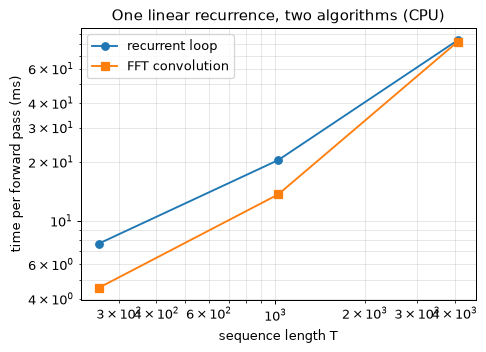
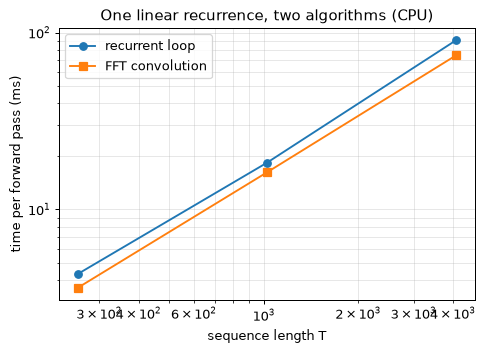
Module 04: make the text agree with the labs' real outputs
With the outputs rewritten from the current environment (5cdb625), every
sentence that quotes or interprets them is reconciled across the labs,
Sections 4-13, What goes wrong, the exercises and the summary. Where a
claim no longer held, the text now says what was measured:

- Lab 4: beam search lowers token accuracy (52.3% to 49.1%). The beam's
  outputs are at least as probable as greedy's on all 200 strings; the
  drop comes from stopping at EOS early, which the scoring pads. Neither
  decoder gets a string right.
- Lab 5: the vanilla RNN learns lag 100 on 2 of 5 seeds and stays at
  chance on 3, so 'it already fails at 100' is gone. The FFT form is at
  best modestly faster on a CPU and slower than the loop at T = 4,096 in
  three of five runs.
- Lab 3: the recursive LSTM is worse than naive at 20 steps ahead; alarm
  counts and delays follow the run; 'no false alarms' still holds.
- Lab 2: the LSTMs reach 64-96% over two seeds; which leads is not stable.
- Exercise 15 re-run (TCN and LSTM tied at 0.134 against linear 0.155);
  Exercise 8(d) no longer quotes an unshown run.

Statements that need more than the printed run cite extra seeds and say
how they were obtained. Every lab reproduces exactly on a second run
except Lab 5's wall-clock timings. check.mjs: 0 errors, 0 warnings.
notes/task-reports/m04-labs.json lists every change.

Claude-Session: https://claude.ai/code/session_01KrzjB21B1GFMGN5fyNzMdb

diff --git a/tutorial-sources/ai/src/en/module_04/21-labs-b.md b/tutorial-sources/ai/src/en/module_04/21-labs-b.md
@@ -356,10 +356,17 @@ greedy     0/200 correct strings, token accuracy 52.3%
 beam k=4   0/200 correct strings, token accuracy 49.1%
 ```
 
-Beam search changes almost nothing: no string out of 200 is right under either method, and token
-accuracy moves from 51.8% to 52.5%. (Greedy decoding gives 51.8% here against the free-running
-51.1% of Step 4 because this is a different set of 200 strings.) The model without attention does
-not know the answer, and no search over its outputs can supply information it never received. Search helps when the model's
+Beam search does not rescue the model: no string out of 200 is right under either method, and token
+accuracy falls from 52.3% to 49.1%. (Greedy decoding gives 52.3% here against the free-running
+52.7% of Step 4 because this is a different set of 200 strings.) The search itself does its job. In a
+check made when this text was revised (the same run, scoring each output with the model's own
+log-probability), the beam's answer was at least as probable as the greedy one for all 200 strings,
+and it had slightly more of the 12 digits right, 49.9% against 48.6%. The lower token accuracy comes
+from the last position: the beam stops at its `EOS` and the code pads the rest, and it stopped one
+or two tokens early on 122 strings against greedy decoding's 114, while greedy decoding always runs
+13 steps and is credited with the `EOS` position whenever it emits `EOS` there, even after an
+earlier one. A more probable output from a wrong model is not a more accurate one. The model
+without attention does not know the answer, and no search over its outputs can supply information it never received. Search helps when the model's
 distribution is right but its greedy path is unlucky, as in the toy example of
 [Section 10](#s10); it cannot repair a distribution that is wrong.
 
@@ -490,8 +497,8 @@ you pad, test exactly the way you trained, and pack whenever a layer reads backw
   accuracy, by 0.3 points at length 4, 11 at length 8 and 21 at length 12. With attention both are
   at 100%.
 - **Search.** Beam search with $k = 4$ leaves the bottleneck model at 0 correct strings out of
-  200 at length 12, with token accuracy 51.8% against 52.5%: search cannot supply what the model
-  does not know.
+  200 at length 12, as greedy decoding does, and token accuracy falls from 52.3% to 49.1% (the beam
+  stops at `EOS` early slightly more often): search cannot supply what the model does not know.
 - **Alignment.** Row $t$ of the heat map peaks at source position $7 - t$ (and at position 0 for
   `EOS`), with peak weights of 0.63 to 0.84 on the digit rows.
 - **The bug.** The unpacked model is accurate on strings padded as in training and fails on
@@ -684,9 +691,10 @@ The two outputs agree to float32 round-off, of the order of $10^{-5}$ on outputs
 little larger at longer $T$ because the kernel $\lambda^k$ is evaluated in float32 and its phase
 error grows with $k$: this is one function computed two ways, not two approximations of each other.
 The loop costs $T$ sequential steps, so its time grows linearly with $T$. The honest finding on a
-CPU is that the FFT form is only modestly faster, and that the advantage shrinks as $T$ grows:
-over repeated runs it was 2.5 to 5 times faster at $T = 256$ and only 1.1 to 1.4 times faster at
-$T = 4{,}096$. That is
+CPU is that the FFT form is at best modestly faster, and that at the longest length the advantage
+is gone: over five runs on the machine used to prepare this lab it was 1.1 to 1.7 times faster at
+$T = 256$, 1.2 to 1.6 times at $T = 1{,}024$, and 0.7 to 1.1 times at $T = 4{,}096$, slower than the
+loop in three of the five. That is
 no contradiction. The FFT does $O(T\log T)$ work with a large constant (three transforms of length
 $2T$ for each of the 64 modes), the loop does $O(T)$ small operations, and a CPU with a few cores
 has little parallelism for the FFT form to exploit. The convolution form pays off where the
@@ -779,8 +787,8 @@ untrained LSTM output shape: (2, 8)
 ### Step 4: Train, at three lags
 
 Each model trains for 400 updates (batch 64, AdamW at $3\times10^{-3}$, gradient norm clipped at 1)
-at lags 25, 100 and 200. The vanilla RNN is run only at 25 and 100: it is slow at 200 and already
-fails at 100. The table reports the test accuracy on 1,000 fresh sequences and the first update at
+at lags 25, 100 and 200. The vanilla RNN is run only at 25 and 100: it is slow at 200, and at 100
+it succeeds on some seeds and stays at chance on others. The table reports the test accuracy on 1,000 fresh sequences and the first update at
 which the mean loss over the last 10 updates fell below 0.05 (a dash if that never happened).
 Chance accuracy is 12.5%, and the initial loss is near $\ln 8 = 2.08$.
 
@@ -811,20 +819,27 @@ diagonal linear            100.0%     124      100.0%     238      100.0%       
 ```
 
 Each entry comes from one training run, from `torch.manual_seed(0)`. A different seed can change
-which cell in the table succeeds, above all at the edge of a model's reach: an LSTM with forget
-bias 5 learned lag 100 on one of three seeds, and the vanilla RNN's partial scores move by tens of
-points. Read the table for its pattern, not for any single cell. The pattern: a memory that is
-set by a gate bias or by the eigenvalue moduli at initialisation reaches as far as that setting
-allows within the budget, and a model that starts with a short memory (the vanilla RNN, the LSTM
-with bias 1) does not find its way to a long one in 400 updates. A dash in the "solved" column
-means the mean loss never fell below 0.05, which can happen at 100% test accuracy when the
-logits are right but not yet confident.
+which cell in the table succeeds, above all at the edge of a model's reach. In runs with seeds 1
+to 4 (`run_recall(..., seed=s)`, made when this text was revised), the LSTM with forget bias 5
+learned lag 100 on two of the four, and the vanilla RNN reached 100% at lag 100 on one (seed 2)
+and stayed at chance on the other three. Read the table for its pattern, not for any single cell.
+The pattern: a memory set by the eigenvalue moduli at initialisation reaches all three lags on
+every seed; a memory set by a gate bias reaches about as far as that setting allows (bias 5
+always learns lag 25 and never lag 200), and the LSTM with bias 1 never leaves chance. The
+vanilla RNN is the odd row of this run: 100% at lag 100 but only 77% at lag 25, and at lag 100
+its loss is still about 1.1 after 400 updates, so it found the answer late and is not yet
+confident. On three seeds of five it never found it. A model that starts with a short memory
+can find a long one within the budget, but whether it does is a matter of luck. A dash in the
+"solved" column means the mean loss never fell below 0.05, which can happen at 100% test
+accuracy when the logits are right but not yet confident, as for the vanilla RNN here.
 
 ### Step 5: Look at the learning curves
 
 The accuracy table hides how training went. Plot the loss of every model at lag 100: a model that
 succeeds shows a plateau at $\ln 8 = 2.08$ followed by a drop, and a model that fails stays on the
-plateau. The length of the plateau is the time spent finding a gradient to follow.
+plateau. The length of the plateau is the time spent finding a gradient to follow. In the run shown
+the linear recurrence leaves the plateau after about 100 updates, while the vanilla RNN leaves
+it, unsteadily, only after about 200 and is still near 1.1 at update 400.
 
 ```python
 plt.figure(figsize=(7, 4.2))
@@ -847,20 +862,21 @@ plt.show()
 
 - **Equality.** The loop and the FFT convolution agree to a few parts in $10^{6}$ to $10^{5}$ in
   float32.
-- **Speed.** On a CPU the FFT form is faster than the loop at every length but only modestly, and
-  the advantage shrinks as $T$ grows (several times at $T = 256$, 1.1 to 1.4 times at $T = 4{,}096$ over repeated runs; the timings are noisy). The case for
-  convolution mode is parallelism, which a GPU supplies.
+- **Speed.** On a CPU the FFT form is at best modestly faster than the loop (1.1 to 1.7 times at
+  $T = 256$ and 1,024 over five runs) and no faster at $T = 4{,}096$ (0.7 to 1.1 times); the timings
+  are noisy. The case for convolution mode is parallelism, which a GPU supplies.
 - **Memory by initialisation.** The 64 moduli span 0.902–0.998724, with half-lives of about 6.7 to
   543 steps. That range, not anything learned, is why the linear recurrence can reach the first
   token.
-- **Recall.** After 400 updates the linear recurrence reaches 100% at all three lags (seeds 0, 1
-  and 2 all agree on the accuracy; the update at which the loss first drops below 0.05 varies, and
-  at lag 200 it is within the budget on one seed of the three). The vanilla RNN learns lag 25 only
-  partly (63–87% over three seeds) and is erratic at lag 100 (11–75%). The LSTM with forget bias 1
-  stays at chance even at lag 25. The LSTM with forget bias 5 is the fastest learner at lag 25
-  (100% after 56–75 updates on all three seeds), learns lag 100 on one seed of three, and is at
-  chance at lag 200. Seeds 1 and 2 were run once, when this lab was prepared, with
-  `run_recall(..., seed=1)` and `seed=2`; try them.
+- **Recall.** After 400 updates the linear recurrence reaches 100% at all three lags (seeds 0 to 4
+  all agree on the accuracy; the update at which the loss first drops below 0.05 varies, and at
+  lag 200 it is within the budget on three seeds of the five). The vanilla RNN learns lag 25 only
+  partly (62–87% over five seeds) and is erratic at lag 100: 100% on seeds 0 and 2, chance (11–14%)
+  on the other three. The LSTM with forget bias 1 stays at chance even at lag 25, on every seed.
+  The LSTM with forget bias 5 is the fastest learner at lag 25 (100% after 56–83 updates on all
+  five seeds), learns lag 100 on two seeds of five (73% on a third), and is at chance at lag 200.
+  Seeds 1 to 4 were run once, when this text was revised, with `run_recall(..., seed=s)`; try
+  them.
 - **What this does and does not show.** It shows trainability within a budget: a memory length set
   directly at initialisation against one that the LSTM has to find through a gate bias. It does not
   show that an LSTM cannot hold a long memory; with a longer budget, chrono initialisation

diff --git a/tutorial-sources/ai/src/en/module_04/30-exercises.md b/tutorial-sources/ai/src/en/module_04/30-exercises.md
@@ -408,7 +408,7 @@ Three consecutive exceedances is the answer. The price is a delay of two samples
 
 **(c)** Two reasons, both from [Section 9](#s9). Residuals are **autocorrelated**: a forecaster that is wrong at one step tends to be wrong the same way at the next, so exceedances arrive in runs and $p^n$ is far too optimistic. And residuals are **heavy-tailed**: normal operation contains rare transients (start-ups, load changes) that a Gaussian tail does not describe. A third is that $\sigma$ itself changes with the operating state. Set the threshold instead from the **empirical quantiles of residuals on a long held-out normal record**, with the persistence rule applied, and *measure* the false alarms per day on that record. A rate of one a month at 10 Hz is one in $30\times864{,}000 = 25.9$ million samples, so it takes about a month of normal data, and preferably several, to measure it at all: a day of data cannot tell $10^{-8}$ from $10^{-6}$.
 
-**(d)** The jump is $1.2/0.2 = 6\sigma$, so the onset sample is flagged by the $4\sigma$ test, and so is the end when the offset disappears. After the jump the forecaster has *re-centred*: it predicts the next value as the last value plus a forecast of the change, so the level error is gone after one step and the offset is never seen again as a level. What remains is an echo, because the window now contains a step that the model never met in training. The answer is therefore "one at the onset, plus a few more while the step crosses the window", not a sustained alarm. For scale, [Lab 3](#lab3) injects an offset of $+0.8$, again about $6\sigma$ there ($\sigma = 0.131$), and its $4\sigma$ point test raises 3 alarms, at the onset, 4 samples later and at the end of the offset, and none in between. A re-implementation of the same set-up (the code of [Exercise 15](#e15), trained on fold 3) gave a $4\sigma$ alarm on the first sample, two more within the next 12 samples, three at the end of the offset, and none in between: over the last 30 samples of the offset the residual's standard deviation was 0.131, the normal value. The point test sees only the edges.
+**(d)** The jump is $1.2/0.2 = 6\sigma$, so the onset sample is flagged by the $4\sigma$ test, and so is the end when the offset disappears. After the jump the forecaster has *re-centred*: it predicts the next value as the last value plus a forecast of the change, so the level error is gone after one step and the offset is never seen again as a level. What remains is an echo, because the window now contains a step that the model never met in training. The answer is therefore "one at the onset, plus a few more while the step crosses the window", not a sustained alarm. For scale, [Lab 3](#lab3) injects an offset of $+0.8$, again about $6\sigma$ there ($\sigma = 0.131$), and its $4\sigma$ point test raises 3 alarms, at the onset, 4 samples later and at the end of the offset, and none in between. The point test sees only the edges.
 
 What to add: a **level check against an independent reference**, which does not move with the sensor: a redundant sensor, the physics prediction of a twin, or a range check against the known operating envelope. Alternatively a CUSUM over residuals from a model that does not re-centre (a longer-horizon forecaster, or one without per-window normalisation) accumulates the evidence that the level is wrong.
 
@@ -952,21 +952,21 @@ print(f"TCN training time is {100 * (1 - mean[4] / mean[2]):.0f}% shorter")
 receptive field: 64 samples
 LSTMForecaster: 12,961 parameters
 TCNForecaster: 10,593 parameters
-origin 4000: linear 0.166  LSTM 0.139 (7.6 s)  TCN 0.136 (4.3 s)
-origin 5000: linear 0.148  LSTM 0.132 (7.3 s)  TCN 0.127 (5.1 s)
-origin 6000: linear 0.153  LSTM 0.135 (8.4 s)  TCN 0.133 (5.8 s)
-origin 7000: linear 0.167  LSTM 0.131 (10.1 s)  TCN 0.134 (6.9 s)
-linear 0.159 +- 0.008
-LSTM   0.135 +- 0.003   8.3 s per fold
-TCN    0.133 +- 0.004   5.5 s per fold
-TCN training time is 34% shorter
+origin 4000: linear 0.166  LSTM 0.139 (8.8 s)  TCN 0.137 (5.6 s)
+origin 5000: linear 0.148  LSTM 0.130 (9.0 s)  TCN 0.127 (6.6 s)
+origin 6000: linear 0.151  LSTM 0.134 (10.2 s)  TCN 0.134 (8.4 s)
+origin 7000: linear 0.154  LSTM 0.134 (12.8 s)  TCN 0.137 (9.4 s)
+linear 0.155 +- 0.007
+LSTM   0.134 +- 0.003   10.2 s per fold
+TCN    0.134 +- 0.004   7.5 s per fold
+TCN training time is 27% shorter
 ```
 
 The parameter counts, 12,961 and 10,593, agree with the hand counts. The standard deviations are over four folds only (population form, `ddof=0`), so they describe the spread across folds and not a confidence interval.
 
-**(c) Accuracy.** The one-step RMSE, in the signal's own units, is $0.133\pm0.004$ for the TCN, $0.135\pm0.003$ for the LSTM and $0.159\pm0.008$ for the linear autoregression. The TCN is **tied with the LSTM** and about 16% better than the linear baseline, which has to be beaten to justify any network ([Section 8](#s8)). That the two networks are tied and not ranked is shown by repeating the run with other seeds. Seed 1 gives TCN $0.135\pm0.007$ against LSTM $0.140\pm0.006$; seed 2 gives TCN $0.138\pm0.008$ against LSTM $0.136\pm0.007$ (the linear baseline does not depend on the seed). The difference between the networks, $-0.002$, $-0.005$ and $+0.002$ over the three seeds, changes sign and is smaller than the spread across folds. Both networks beat the linear model by a margin that is stable across seeds, because the stiffening spring is nonlinear. Your own numbers will differ in the last digit.
+**(c) Accuracy.** The one-step RMSE, in the signal's own units, is $0.134\pm0.004$ for the TCN, $0.134\pm0.003$ for the LSTM and $0.155\pm0.007$ for the linear autoregression. The TCN is **tied with the LSTM** and about 14% better than the linear baseline, which has to be beaten to justify any network ([Section 8](#s8)). That the two networks are tied and not ranked is shown by repeating the run with other seeds. Seed 1 gives TCN $0.132\pm0.004$ against LSTM $0.138\pm0.006$; seed 2 gives TCN $0.134\pm0.004$ against LSTM $0.134\pm0.006$ (the linear baseline does not depend on the seed). The difference between the networks, $0.000$, $-0.006$ and $0.000$ over the three seeds, is no larger than the spread across folds. Both networks beat the linear model by a margin that is stable across seeds, because the stiffening spring is nonlinear. Your own numbers will differ in the last digit.
 
-**(d) Training time.** Per fold the LSTM took 7.3 to 10.1 s (mean 8.3 s) and the TCN 4.3 to 6.9 s (mean 5.5 s), 34% less; the other two seeds gave 33% and 34% on the same machine. The time rises from the first fold to the last because the training set grows from 3,936 windows to 6,936. Timings depend on the load on the machine, so read the ratio and not the seconds. The saving does not come from fewer arithmetic operations. Counting multiply-adds by hand, the TCN uses $64\times2\times32 + 5\times64\times2\times32\times32 + 64\times32 = 661{,}504$ per window and the two-layer LSTM $64\times(4\times32\times33 + 4\times32\times64) = 794{,}624$: about the same. It comes from the structure: the TCN computes all 64 positions of each layer in one convolution, six large operations, while the LSTM runs 64 dependent steps per layer, 128 small ones ([Section 12](#s12)). On a GPU, where small operations leave the hardware idle, the gap is larger.
+**(d) Training time.** Per fold the LSTM took 8.8 to 12.8 s (mean 10.2 s) and the TCN 5.6 to 9.4 s (mean 7.5 s), 27% less; the other two seeds gave 50% and 51% on the same machine, which was busier during those runs. The time rises from the first fold to the last because the training set grows from 3,936 windows to 6,936. Timings depend on the load on the machine, so read the ratio and not the seconds. The saving does not come from fewer arithmetic operations. Counting multiply-adds by hand, the TCN uses $64\times2\times32 + 5\times64\times2\times32\times32 + 64\times32 = 661{,}504$ per window and the two-layer LSTM $64\times(4\times32\times33 + 4\times32\times64) = 794{,}624$: about the same. It comes from the structure: the TCN computes all 64 positions of each layer in one convolution, six large operations, while the LSTM runs 64 dependent steps per layer, 128 small ones ([Section 12](#s12)). On a GPU, where small operations leave the hardware idle, the gap is larger.
 
 **(e) When to choose each.** Choose the **TCN** when the dependency length needed is known and bounded (here 64 samples, enough to cover the 50-sample period of the load), when training speed matters, and when fixed-length windows are natural. It trains in parallel over time and its gradient path to any input is at most six layers long. Its limits are the fixed receptive field, since nothing older than 64 samples can influence the output and covering more takes more layers, and a more awkward streaming deployment: it can stream, but with a buffer per dilation level. Choose the **LSTM** (or a linear recurrence, [Section 13](#s13)) when the dependency length is unknown or very long, or when the model must run step by step with a small constant state, as on the microcontroller of [Exercise 14](#e14)(a). With its constant per-step compute, it is the natural monitor of a live stream. Here, where the two are tied in accuracy, the decision is made by engineering constraints and not by the metric.
 :::

diff --git a/tutorial-sources/ai/src/en/module_04/20-labs-a.md b/tutorial-sources/ai/src/en/module_04/20-labs-a.md
@@ -681,8 +681,8 @@ the forget gate's bias sets how far the LSTM reaches. You then reproduce the
 $\partial\mathbf{c}_{100}/\partial\mathbf{c}_0$ experiment, which compares the measured gradient
 with the product of forget gates that [Section 5](#s5) predicts. Finally you train a plain RNN and
 two LSTMs on the maintenance log with Lab 1's truncated-BPTT layout and watch the closing-tag
-accuracy. The lab uses PyTorch and a few seconds of CPU per model; the whole lab takes about two
-minutes on a laptop. There is no download.
+accuracy. The lab uses PyTorch and about half a minute of CPU per model; the whole lab takes about
+two minutes on a four-thread CPU. There is no download.
 
 ### Step 1: the LSTM cell from its equations
 
@@ -1143,8 +1143,8 @@ percentage has a standard error of about 3 to 4 points. Read the pattern, not si
   differs by 0.02 to 0.04 nats per character while the accuracy differs by a factor of four to
   five: the loss is dominated by the random digits, and the behavioural audit shows what it hides.
 - **Which LSTM is ahead** is not stable. Repeating the run with `torch.manual_seed(7)` in
-  `train_log_model` gave 79% for the bias-0 LSTM and 74% for the bias-1 LSTM at update 2,500, the
-  reverse of the order above, and both again far above the plain RNN at 25%. The robust finding is
+  `train_log_model` gave 73% for the bias-0 LSTM and 96% for the bias-1 LSTM at update 2,500, the
+  reverse of the order above, and both again far above the plain RNN at 24%. The robust finding is
   that the gated cell learns the tag within 2,500 updates and the plain cell does not. The
   forget bias helps in principle, as Step 3 showed, but one run of this size does not measure
   how much.
@@ -1170,9 +1170,8 @@ percentage has a standard error of about 3 to 4 points. Read the pattern, not si
   guessing level is 12.5%) while the two LSTMs reach about 64% and 78%. Each LSTM spends the first
   1,000 updates or more near the level of guessing and then rises. The validation loss shows only a small
   gap.
-- **Run time:** about 10 s per model in the run shown, and up to about 25 s per LSTM and 20 s for
-  the RNN on a busier machine (under a few minutes in total for the lab), so the whole lab fits in
-  the time stated above.
+- **Run time:** about 35 s per model on the machine used to prepare the lab (four CPU threads),
+  and about 105 s for the whole lab, which fits the time stated above.
 
 ### Try this
 
@@ -1201,7 +1200,7 @@ is explained (the signal drifts out of the range the network saw in training), a
 with per-window normalisation. Multi-step forecasts are compared, recursive against direct. The
 forecaster's residuals then feed three detectors, and four injected faults show that each kind of
 fault needs its own detector ([Section 9](#s9)). The data is synthetic, with no download. This is
-the module's one larger training lab: with `QUICK = False` it takes about two minutes on a laptop
+the module's one larger training lab: with `QUICK = False` it takes about two minutes on a four-thread
 CPU, and `QUICK = True` finishes in about a third of that time.
 
 ### Step 1: simulate the machine
@@ -1391,7 +1390,7 @@ RMSE, about 0.43, is *worse* than the naive forecast's 0.36, and its mean error 
 systematically predicts too low, as a network does when its saturating units cannot represent a
 level beyond the training range. The model has learned a map on the range it saw, and does not
 extrapolate it as a linear model would. A second seed (`torch.manual_seed(1)` at the top, and
-`seed=1` in `fit`) gave 0.63 against the same naive 0.37 and a mean error of $-0.57$ when this lab
+`seed=1` in `fit`) gave 0.66 against the same naive 0.36 and a mean error of $-0.59$ when this lab
 was prepared, so the size of the failure varies with the seed and its sign does not.
 
 This is the failure of [Section 8](#s8), reproduced on a nonlinear signal. Nothing in the code is
@@ -1541,7 +1540,7 @@ forcing and the stiffened oscillation, and the value one period ago is almost un
 value now. A baseline has to be computed, not assumed; here the textbook choice for a periodic
 signal is the wrong one. The linear autoregression, at about 0.155, is a strong baseline
 that nobody should skip. The LSTM, at about 0.135 with a standard deviation over folds of about
-0.006, is the best in every fold, by 12 to 16% over the linear model in this run (9 to 17% in
+0.006, is the best in every fold, by 12 to 16% over the linear model in this run (8 to 18% with
 the second seed). That margin is real but modest, and it is the honest size of the benefit of a
 neural forecaster here.
 
@@ -1797,7 +1796,8 @@ normal operation. The faulted residual plot above shows why each fault needs its
   does not move with the sensor.
 - **The doubled excitation** produces few extreme residuals (five point alarms in this run, the first
   151 samples into the fault), but the residual RMS rises from 0.134 on the hold-out to about 0.21
-  during the fault. The rolling RMS crosses its limit 99 samples after the fault starts (30 to 100 samples in the runs prepared with this lab). The margin is small, which is why the
+  during the fault. The rolling RMS crosses its limit 99 samples after the fault starts (85 with the second seed,
+  125 with `QUICK = True`). The margin is small, which is why the
   delay is long: a smaller change would take longer to detect or be missed.
 - **The stuck sensor** raises no residual alarm while it is stuck: a frozen reading is predicted with
   an error that is small and nearly constant. The one point alarm in its row, at +100, is the sample
@@ -1816,7 +1816,7 @@ normal operation. The faulted residual plot above shows why each fault needs its
   about 11 samples riding on it.
 - **Step 2: Section 8's code loses to the naive forecast.** The normalised test inputs lie almost
   wholly above the range of the training inputs (about 1.0 to 3.6 against $-2.2$ to 2.3), and the
-  LSTM's RMSE (about 0.43, naive 0.36) is worse than naive with a negative bias of about 0.3 (0.63
+  LSTM's RMSE (about 0.43, naive 0.36) is worse than naive with a negative bias of about 0.3 (0.66
   with the second seed). The model is not mis-trained; it was asked to extrapolate.
 - **Step 3: per-window normalisation fixes it.** The RMSE falls to about 0.13 and the bias to about
   zero.
@@ -1829,10 +1829,10 @@ normal operation. The faulted residual plot above shows why each fault needs its
 - **Step 6: the monitor.** The point test catches the spike and the two edges of the offset; the rolling
   RMS catches the excitation fault after 99 samples; the variance floor alone catches the stuck
   sensor while it is stuck; no false alarms in 239 normal samples. Each fault type needs its own detector.
-- **Run time.** Between half a minute and a minute on the machine used to prepare the lab, depending
-  on what else was running, with `QUICK = False` (the simulation takes well under a second), and about
-  20 seconds with `QUICK = True`, which trains 4 epochs and only the last two folds; with fewer epochs the Step 2 failure is larger (0.61 against 0.37). Expect two to three times
-  longer on a laptop.
+- **Run time.** About 100 seconds on the machine used to prepare the lab (four CPU threads) with
+  `QUICK = False` (the simulation takes well under a second), and about 35 seconds with
+  `QUICK = True`, which trains 4 epochs and only the last two folds; with fewer epochs the Step 2
+  failure is larger (0.65 against 0.36). A slower laptop takes longer.
 
 ### Try this
 

diff --git a/tutorial-sources/ai/src/en/module_04/12-concepts-c.md b/tutorial-sources/ai/src/en/module_04/12-concepts-c.md
@@ -83,8 +83,8 @@ rolling standard deviation alarms below half its hold-out minimum. The lab's run
 - **Offset**: the point test fires around its onset and at its end only (3 alarm samples in all:
   the onset, 4 samples later, and the end).
 - **Doubled excitation**: few residuals are extreme (five point alarms, the first 151 samples in), but
-  the residual RMS rises from 0.134 to about 0.21; the rolling RMS alarms 99 samples after the change (30 to 100 samples over the runs made
-  when the lab was prepared).
+  the residual RMS rises from 0.134 to about 0.21; the rolling RMS alarms 99 samples after the change (85 with a
+  second training seed).
 - **Stuck sensor**: no residual alarm while it is stuck (one point alarm on the sample where it
   recovers); the variance floor fires 21 samples after it sticks, once its window has filled with
   near-constant residuals.
@@ -253,8 +253,9 @@ $0 < \alpha \le 1$; Wu et al. (2016) use the smoothed divisor $\big((5+|y|)/6\bi
 minimum length is a cruder guard. Beam search serves tasks that want the single best output; when
 diverse outputs are wanted, sampling serves better ([Module 07](module_07_EN.html)). Nor can search
 repair a model that does not know the answer: in Lab 4, beam search with $k = 4$ leaves the
-bottleneck model at 0 correct strings out of 200 at length 12, as greedy decoding does, and moves
-its token accuracy only from 51.8% to 52.5%.
+bottleneck model at 0 correct strings out of 200 at length 12, as greedy decoding does, and its
+token accuracy falls from 52.3% to 49.1%: the beam finds outputs the model rates as more probable,
+and they are no more correct.
 
 ### The bottleneck
 
@@ -619,9 +620,11 @@ operator: two steps, $\tanh(w\tanh(wh + b_1) + b_2)$, are not one step of the sa
 A direct causal convolution of length $T = 4{,}096$ needs about $T^2/2 = 8.4$ million multiply-adds
 per channel. An FFT-based one, padded to $2T$, needs about $3\times 2T\log_2(2T) = 3\times8{,}192 \times13 \approx 0.32$ million (an order-of-magnitude count). The recurrent loop needs only $T$
 multiply-adds per channel, but they are sequential. On a CPU the counts do not decide the race.
-[Lab 5](#lab5)'s timings (batch 8, $N = 64$, best of three, one run) are 1.4 ms for the loop
-against 0.5 ms for the FFT form at $T = 256$, 5.4 against 2.5 ms at 1,024, and 25.7 against
-18.9 ms at 4,096: the FFT form is faster, but only modestly, and its lead shrinks as $T$ grows.
+[Lab 5](#lab5)'s timings (batch 8, $N = 64$, best of three, the run shown) are 4.2 ms for the loop
+against 3.8 ms for the FFT form at $T = 256$, 19.8 against 13.8 ms at 1,024, and 79.1 against
+70.0 ms at 4,096. Over five runs the FFT form was 1.1 to 1.7 times faster at the two shorter
+lengths and 0.7 to 1.1 times at 4,096: at best modestly faster, and at the longest length no
+faster at all.
 Convolution mode pays off where parallel hardware can absorb its larger, parallel work, on a GPU
 and in training.
 :::
@@ -741,10 +744,11 @@ returns.
 
 [Lab 5](#lab5) builds an LRU-style diagonal recurrence. Its loop and FFT forms agree to float32
 round-off, a few parts in $10^6$ to $10^5$. On delayed recall (remember the first of $L+1$
-tokens), after 400 updates it reaches 100% at lags 25, 100 and 200 on all three seeds tried. The
-vanilla RNN learns lag 25 only partly (63 to 87% over three seeds) and is erratic at lag 100. An
-LSTM depends on its forget bias: with bias 1 it stays at chance even at lag 25; with bias 5 it is
-the fastest learner at lag 25, learns lag 100 on one seed of three, and fails at lag 200. The
+tokens), after 400 updates it reaches 100% at lags 25, 100 and 200 on all five seeds tried. The
+vanilla RNN learns lag 25 only partly (62 to 87% over five seeds) and is erratic at lag 100 (100%
+on two seeds, chance on three). An LSTM depends on its forget bias: with bias 1 it stays at chance
+even at lag 25; with bias 5 it is the fastest learner at lag 25, learns lag 100 on two seeds of
+five, and fails at lag 200. The
 recurrence's memory was set at initialisation by its eigenvalue moduli. This is a statement about
 trainability within a budget, not a proof that LSTMs cannot remember.
 

diff --git a/tutorial-sources/ai/src/en/module_04/11-concepts-b.md b/tutorial-sources/ai/src/en/module_04/11-concepts-b.md
@@ -206,7 +206,7 @@ In [Lab 2](#lab2), with forget bias 0 an LSTM's gradient decays with lag like a 
 with bias 3 or 5 the gradient ratio stays between about 0.14 and 0.4 out to lag 100. On
 [Lab 1](#lab1)'s maintenance log, after 2,500 updates, the closing tag (18 to 36 characters
 after its opening tag) is right 14 to 25% of the time for a plain RNN, near the 12.5% of
-guessing, and 74 to 86% for the LSTMs with forget bias 0 and 1 (Lab 2's run and a second seed).
+guessing, and 64 to 96% for the LSTMs with forget bias 0 and 1 (Lab 2's run and a second seed).
 Which of the two LSTMs is ahead changes with the seed; the gap between the gated cells and the
 plain one does not.
 
